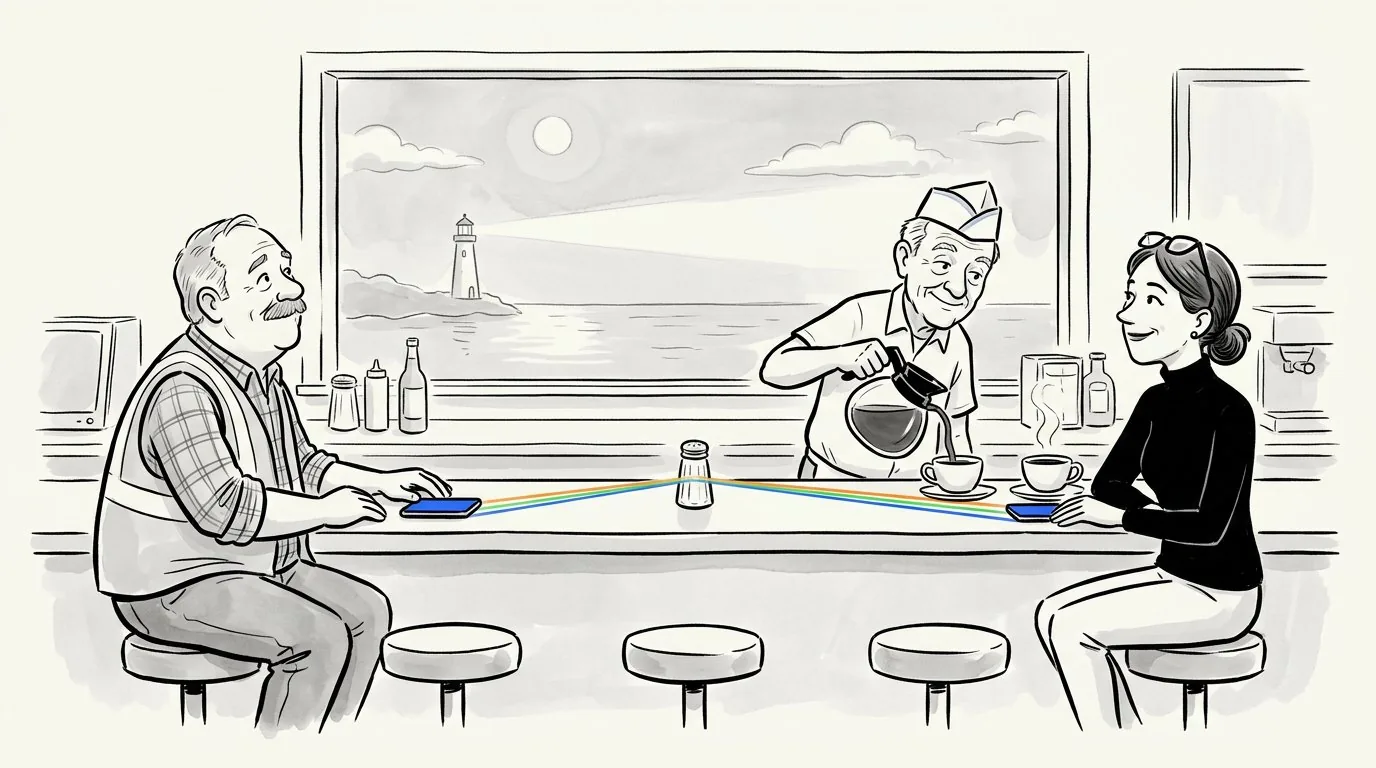
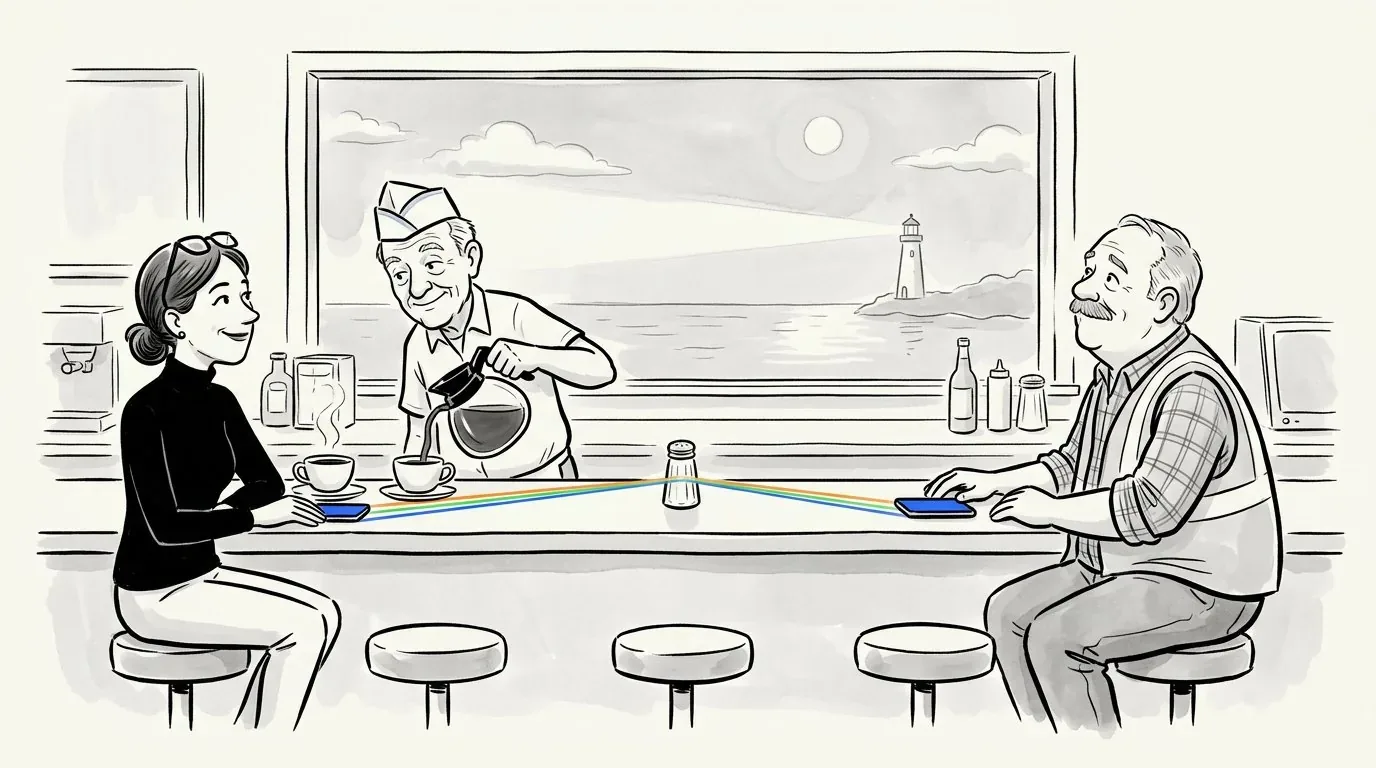
Round 2, part 2: she sits on the left in the share card and the step pictures (Mel, 31 October: "Start round 2")
The two diner step pictures are mirrored so she sits left and he sits right, as on every page. The share card that link previews show is new: the landing page's headline and the pair on their counter line, on white. Every page asks link previews for the new card (?v=2) and describes it; the privacy page gets the full set of share tags.

Changed region(s): [[0.0312, 0.0625, 0.9688, 0.9688], [0.4375, 0.8125, 0.5625, 0.9375], [0.4688, 0.4062, 0.5312, 0.4375]]

diff --git a/index.html b/index.html
@@ -11,10 +11,10 @@
 <meta property="og:title" content="A dating app for warehouses">
 <meta property="og:description" content="Warehouses get lonely too. We find the companies that will need space before they start looking, and introduce them to the warehouse companies that will welcome them with open arms.">
 <meta property="og:url" content="https://clairvistapartners.com/">
-<meta property="og:image" content="https://clairvistapartners.com/assets/share-dating-app.jpg">
+<meta property="og:image" content="https://clairvistapartners.com/assets/share-dating-app.jpg?v=2">
 <meta property="og:image:width" content="1200">
 <meta property="og:image:height" content="630">
-<meta property="og:image:alt" content="A corner diner at night. A warehouse manager at one end of the counter and the head of a growing company at the other, both on their phones.">
+<meta property="og:image:alt" content="Warehouses get lonely too. So we built a dating app for warehouses. Ink drawings of the head of operations and the warehouse manager on diner stools, side by side.">
 <meta name="twitter:title" content="A dating app for warehouses">
 <meta name="twitter:card" content="summary_large_image">
 <meta name="theme-color" content="#FFFFFF">

diff --git a/companies.html b/companies.html
@@ -11,10 +11,10 @@
 <meta property="og:title" content="A dating app for warehouses">
 <meta property="og:description" content="Tell us the date, place, space and budget. We find the warehouse that can say yes, introduce you and set up the walkthrough. Prism, our app, is coming soon.">
 <meta property="og:url" content="https://clairvistapartners.com/companies.html">
-<meta property="og:image" content="https://clairvistapartners.com/assets/share-dating-app.jpg">
+<meta property="og:image" content="https://clairvistapartners.com/assets/share-dating-app.jpg?v=2">
 <meta property="og:image:width" content="1200">
 <meta property="og:image:height" content="630">
-<meta property="og:image:alt" content="A corner diner at night. A warehouse manager at one end of the counter and the head of a growing company at the other, both on their phones.">
+<meta property="og:image:alt" content="Warehouses get lonely too. So we built a dating app for warehouses. Ink drawings of the head of operations and the warehouse manager on diner stools, side by side.">
 <meta name="twitter:title" content="A dating app for warehouses">
 <meta name="twitter:card" content="summary_large_image">
 <meta name="theme-color" content="#FFFFFF">

diff --git a/how-it-works.html b/how-it-works.html
@@ -11,10 +11,10 @@
 <meta property="og:title" content="A dating app for warehouses">
 <meta property="og:description" content="Two sides, one walkthrough. Companies with stuff and warehouse companies with space each get a profile and a match, and we introduce them in real life.">
 <meta property="og:url" content="https://clairvistapartners.com/how-it-works.html">
-<meta property="og:image" content="https://clairvistapartners.com/assets/share-dating-app.jpg">
+<meta property="og:image" content="https://clairvistapartners.com/assets/share-dating-app.jpg?v=2">
 <meta property="og:image:width" content="1200">
 <meta property="og:image:height" content="630">
-<meta property="og:image:alt" content="A corner diner at night. A warehouse manager at one end of the counter and the head of a growing company at the other, both on their phones.">
+<meta property="og:image:alt" content="Warehouses get lonely too. So we built a dating app for warehouses. Ink drawings of the head of operations and the warehouse manager on diner stools, side by side.">
 <meta name="twitter:title" content="A dating app for warehouses">
 <meta name="twitter:card" content="summary_large_image">
 <meta name="theme-color" content="#FFFFFF">

diff --git a/warehouses.html b/warehouses.html
@@ -11,10 +11,10 @@
 <meta property="og:title" content="A dating app for warehouses">
 <meta property="og:description" content="We write your building&#x27;s profile with you, spot who will need your space, introduce you and set up the walkthrough. Prism, our app, is coming soon.">
 <meta property="og:url" content="https://clairvistapartners.com/warehouses.html">
-<meta property="og:image" content="https://clairvistapartners.com/assets/share-dating-app.jpg">
+<meta property="og:image" content="https://clairvistapartners.com/assets/share-dating-app.jpg?v=2">
 <meta property="og:image:width" content="1200">
 <meta property="og:image:height" content="630">
-<meta property="og:image:alt" content="A corner diner at night. A warehouse manager at one end of the counter and the head of a growing company at the other, both on their phones.">
+<meta property="og:image:alt" content="Warehouses get lonely too. So we built a dating app for warehouses. Ink drawings of the head of operations and the warehouse manager on diner stools, side by side.">
 <meta name="twitter:title" content="A dating app for warehouses">
 <meta name="twitter:card" content="summary_large_image">
 <meta name="theme-color" content="#FFFFFF">

diff --git a/about.html b/about.html
@@ -11,10 +11,10 @@
 <meta property="og:title" content="A dating app for warehouses">
 <meta property="og:description" content="Clairvista Partners is a data and marketing company in Needham, Massachusetts. We&#x27;re the one in the middle who notices. Prism, our app, is coming soon.">
 <meta property="og:url" content="https://clairvistapartners.com/about.html">
-<meta property="og:image" content="https://clairvistapartners.com/assets/share-dating-app.jpg">
+<meta property="og:image" content="https://clairvistapartners.com/assets/share-dating-app.jpg?v=2">
 <meta property="og:image:width" content="1200">
 <meta property="og:image:height" content="630">
-<meta property="og:image:alt" content="A corner diner at night. A warehouse manager at one end of the counter and the head of a growing company at the other, both on their phones.">
+<meta property="og:image:alt" content="Warehouses get lonely too. So we built a dating app for warehouses. Ink drawings of the head of operations and the warehouse manager on diner stools, side by side.">
 <meta name="twitter:title" content="A dating app for warehouses">
 <meta name="twitter:card" content="summary_large_image">
 <meta name="theme-color" content="#FFFFFF">

diff --git a/privacy.html b/privacy.html
@@ -10,7 +10,12 @@
 <meta property="og:site_name" content="Clairvista Partners">
 <meta property="og:title" content="A dating app for warehouses">
 <meta property="og:url" content="https://clairvistapartners.com/privacy.html">
-<meta property="og:image" content="https://clairvistapartners.com/assets/share-dating-app.jpg">
+<meta property="og:image" content="https://clairvistapartners.com/assets/share-dating-app.jpg?v=2">
+<meta property="og:image:width" content="1200">
+<meta property="og:image:height" content="630">
+<meta property="og:image:alt" content="Warehouses get lonely too. So we built a dating app for warehouses. Ink drawings of the head of operations and the warehouse manager on diner stools, side by side.">
+<meta name="twitter:title" content="A dating app for warehouses">
+<meta name="twitter:card" content="summary_large_image">
 <meta name="theme-color" content="#FFFFFF">
 <link rel="preconnect" href="https://fonts.googleapis.com"><link rel="preconnect" href="https://fonts.gstatic.com" crossorigin>
 <link href="https://fonts.googleapis.com/css2?family=Outfit:wght@400;500;600;700;800;900&family=Space+Mono:wght@400;700&display=swap" rel="stylesheet">

diff --git a/partners.html b/partners.html
@@ -11,10 +11,10 @@
 <meta property="og:title" content="A dating app for warehouses">
 <meta property="og:description" content="Stores, carriers, building owners and service providers: we bring everyone to one table. Pull up a chair.">
 <meta property="og:url" content="https://clairvistapartners.com/partners.html">
-<meta property="og:image" content="https://clairvistapartners.com/assets/share-dating-app.jpg">
+<meta property="og:image" content="https://clairvistapartners.com/assets/share-dating-app.jpg?v=2">
 <meta property="og:image:width" content="1200">
 <meta property="og:image:height" content="630">
-<meta property="og:image:alt" content="A corner diner at night. A warehouse manager at one end of the counter and the head of a growing company at the other, both on their phones.">
+<meta property="og:image:alt" content="Warehouses get lonely too. So we built a dating app for warehouses. Ink drawings of the head of operations and the warehouse manager on diner stools, side by side.">
 <meta name="twitter:title" content="A dating app for warehouses">
 <meta name="twitter:card" content="summary_large_image">
 <meta name="theme-color" content="#FFFFFF">
